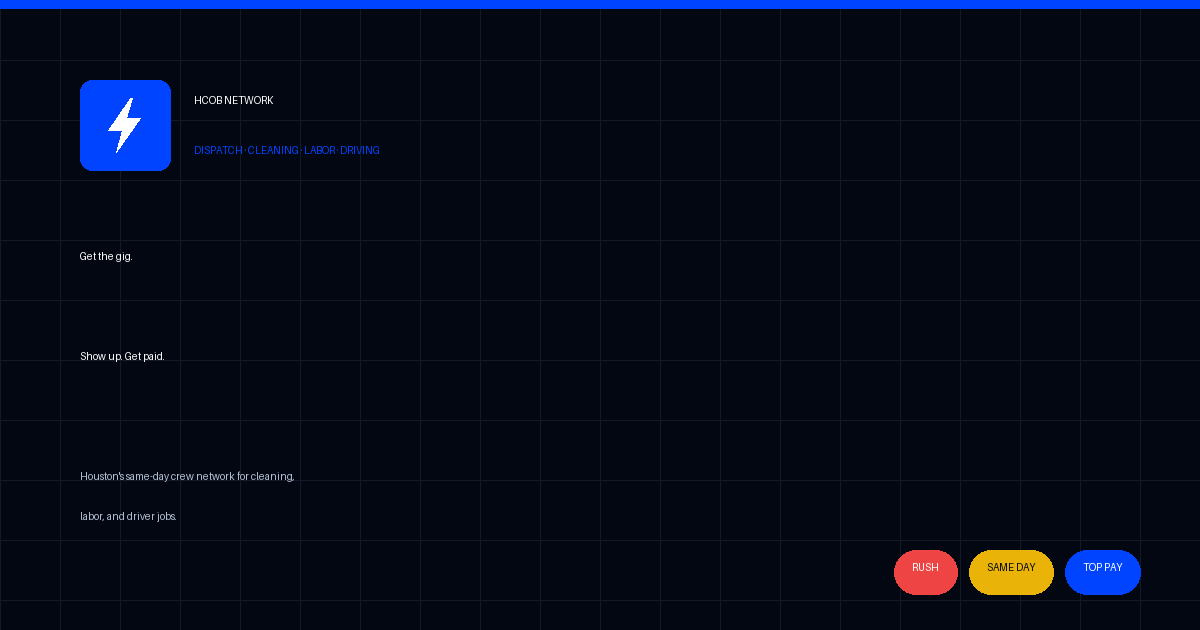
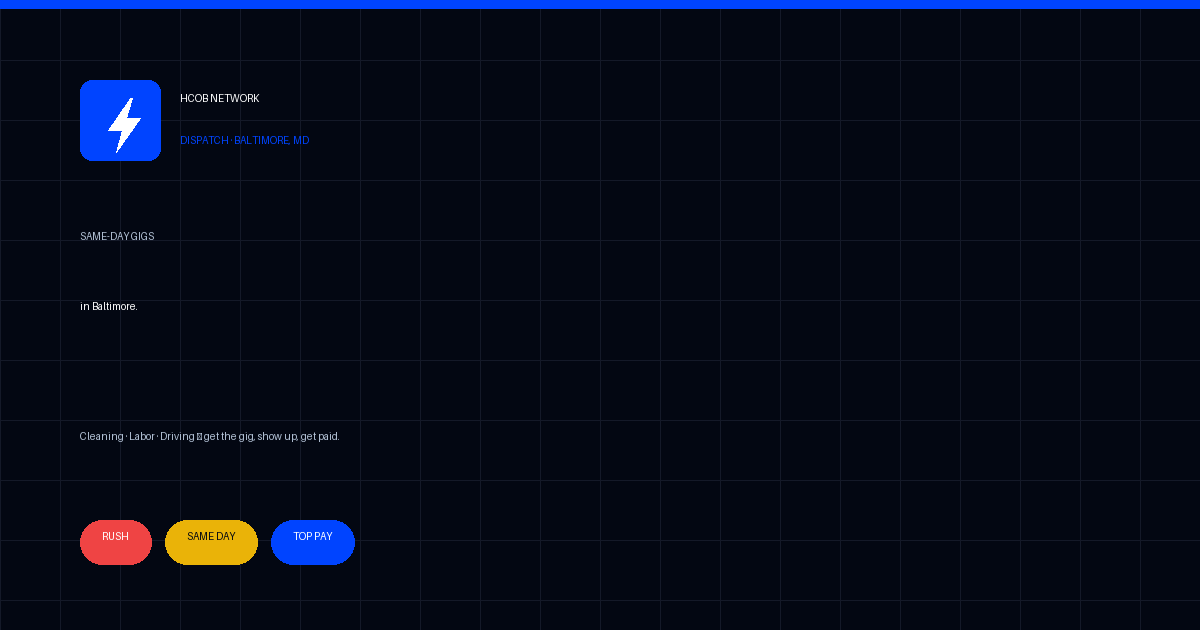
auto-commit for 36c0087f-5a3c-46e1-b421-0fe88ad161a5

diff --git a/frontend/public/index.html b/frontend/public/index.html
@@ -6,8 +6,8 @@
         <meta name="theme-color" content="#0044FF" />
 
         <!-- Primary -->
-        <title>HCOB Network — Same-day cleaning, labor & driver gigs in Houston</title>
-        <meta name="description" content="HCOB's dispatch network for cleaning, labor, and driver gigs across Houston. Get the gig, show up, get paid." />
+        <title>HCOB Network — Same-day cleaning, labor & driver gigs in Baltimore, MD</title>
+        <meta name="description" content="HCOB's dispatch network for cleaning, labor, and driver gigs across Baltimore, Maryland. Get the gig, show up, get paid." />
         <meta name="application-name" content="HCOB Network" />
         <meta name="apple-mobile-web-app-title" content="HCOB Network" />
         <link rel="icon" href="%PUBLIC_URL%/favicon.ico" sizes="any" />
@@ -17,20 +17,20 @@
         <!-- Open Graph -->
         <meta property="og:type" content="website" />
         <meta property="og:site_name" content="HCOB Network" />
-        <meta property="og:title" content="HCOB Network — Same-day gigs in Houston" />
-        <meta property="og:description" content="Get the gig. Show up. Get paid. HCOB's dispatch network for cleaning, labor, and driver gigs across Houston." />
+        <meta property="og:title" content="HCOB Network — Same-day gigs in Baltimore, MD" />
+        <meta property="og:description" content="Get the gig. Show up. Get paid. HCOB's dispatch network for cleaning, labor, and driver gigs across Baltimore, Maryland." />
         <meta property="og:image" content="%PUBLIC_URL%/og-default.png" />
         <meta property="og:image:width" content="1200" />
         <meta property="og:image:height" content="630" />
-        <meta property="og:image:alt" content="HCOB Network — dispatch, cleaning, labor, driving" />
+        <meta property="og:image:alt" content="HCOB Network — Baltimore dispatch for cleaning, labor, driving" />
         <meta property="og:locale" content="en_US" />
 
         <!-- Twitter -->
         <meta name="twitter:card" content="summary_large_image" />
-        <meta name="twitter:title" content="HCOB Network — Same-day gigs in Houston" />
-        <meta name="twitter:description" content="Get the gig. Show up. Get paid. HCOB's dispatch network for cleaning, labor, and driver gigs." />
+        <meta name="twitter:title" content="HCOB Network — Same-day gigs in Baltimore, MD" />
+        <meta name="twitter:description" content="Get the gig. Show up. Get paid. HCOB's dispatch network for cleaning, labor, and driver gigs across Baltimore, Maryland." />
         <meta name="twitter:image" content="%PUBLIC_URL%/og-default.png" />
-        <meta name="twitter:image:alt" content="HCOB Network — dispatch, cleaning, labor, driving" />
+        <meta name="twitter:image:alt" content="HCOB Network — Baltimore dispatch for cleaning, labor, driving" />
 
         <link rel="preconnect" href="https://fonts.googleapis.com" />
         <link rel="preconnect" href="https://fonts.gstatic.com" crossorigin />
@@ -48,7 +48,6 @@
         work correctly both with client-side routing and a non-root public URL.
         Learn how to configure a non-root public URL by running `npm run build`.
         -->
-        <title>HCOB Network — Same-day cleaning, labor & driver gigs in Houston</title>
         <script>window.addEventListener("error",function(e){if(e.error instanceof DOMException&&e.error.name==="DataCloneError"&&e.message&&e.message.includes("PerformanceServerTiming")){e.stopImmediatePropagation();e.preventDefault()}},true);</script>
         <script src="https://assets.emergent.sh/scripts/emergent-main.js"></script>
     </head>

diff --git a/frontend/src/pages/Landing.jsx b/frontend/src/pages/Landing.jsx
@@ -111,7 +111,7 @@ export default function Landing() {
         <div className="mx-auto grid max-w-7xl grid-cols-1 lg:grid-cols-12">
           <div className="lg:col-span-7 border-r-0 lg:border-r border-[#E5E7EB] px-6 py-16 lg:py-24">
             <div className="font-mono-label mb-6">
-              For HCOB workers · Apply once, get gigs forever
+              For HCOB workers in Baltimore, MD · Apply once, get gigs forever
             </div>
             <h1 className="font-display text-5xl sm:text-6xl lg:text-7xl font-black leading-[0.95] tracking-tighter">
               Find gigs from
@@ -119,9 +119,11 @@ export default function Landing() {
               HCOB Cleaners.
             </h1>
             <p className="mt-6 max-w-xl text-base text-[#4B5563] leading-relaxed">
-              HCOB Network is where the HCOB Cleaners crew picks up work. Cleaning,
-              labor, and driver gigs — posted by HCOB, claimed by you. Build a
-              profile once, then accept jobs in the app whenever they hit your feed.
+              HCOB Network is where the HCOB Cleaners crew picks up work
+              across <strong className="text-[#030712]">Baltimore, Maryland</strong>.
+              Cleaning, labor, and driver gigs — posted by HCOB, claimed by you.
+              Build a profile once, then accept jobs in the app whenever they
+              hit your feed.
             </p>
             <div className="mt-10 flex flex-wrap items-center gap-3">
               <Button
@@ -323,7 +325,7 @@ export default function Landing() {
                           <div className="flex items-center gap-1.5">
                             <MapPin size={12} weight="duotone" />
                             <span className="font-semibold text-[#030712]">
-                              {g.location || "Houston area"}
+                              {g.location || "Baltimore area"}
                             </span>
                           </div>
                           <div className="flex items-center gap-1.5">

diff --git a/frontend/src/components/admin/EditGigDialog.jsx b/frontend/src/components/admin/EditGigDialog.jsx
@@ -257,7 +257,7 @@ export default function EditGigDialog({ open, onOpenChange, gig, onSaved }) {
               value={form.address_line}
               onChange={(e) => set("address_line", e.target.value)}
               className="mt-2 h-11 rounded-none border-[#030712]"
-              placeholder="123 Oak Ave, San Francisco, CA 94110"
+              placeholder="123 Oak Ave, Baltimore, MD 21201"
             />
             <div className="mt-1 text-[11px] text-[#4B5563]">
               Hidden from unverified workers and anyone who hasn't accepted.

diff --git a/frontend/src/components/admin/CreateGigDialog.jsx b/frontend/src/components/admin/CreateGigDialog.jsx
@@ -323,7 +323,7 @@ export default function CreateGigDialog({
               value={form.address_line}
               onChange={(e) => set("address_line", e.target.value)}
               className="mt-2 h-11 rounded-none border-[#030712]"
-              placeholder="123 Oak Ave, San Francisco, CA 94110"
+              placeholder="123 Oak Ave, Baltimore, MD 21201"
             />
             <div className="mt-1 text-[11px] text-[#4B5563]">
               Hidden from unverified workers and anyone who hasn't accepted.

diff --git a/frontend/src/components/admin/CreateProjectDialog.jsx b/frontend/src/components/admin/CreateProjectDialog.jsx
@@ -139,7 +139,7 @@ export default function CreateProjectDialog({ open, onOpenChange, onCreated }) {
               data-testid="project-default-location"
               value={form.defaults.location}
               onChange={(e) => setDefault("location", e.target.value)}
-              placeholder="Houston · 77001"
+              placeholder="Baltimore · 21201"
               className="mt-2 h-11 rounded-none border-[#030712]"
             />
           </div>

diff --git a/backend/server.py b/backend/server.py
@@ -3624,7 +3624,7 @@ async def share_gig_og(gig_id: str, request: Request):
     sub = (gig.get("subcategory") or "").replace("_", " ")
     pay = gig.get("pay_rate")
     pay_type = gig.get("pay_type") or "hourly"
-    location = gig.get("location") or "Houston"
+    location = gig.get("location") or "Baltimore, MD"
     scheduled = gig.get("scheduled_date") or "TBD"
     pay_str = f"${pay:.0f}{'/hr' if pay_type == 'hourly' else ' flat'}" if pay else ""
 
@@ -3735,7 +3735,7 @@ async def share_gig_og_image(gig_id: str):
 
         # Branding text
         d.text((180, 92), "HCOB NETWORK", font=find_font(38, bold=True), fill=WHITE)
-        d.text((180, 134), "DISPATCH · HOUSTON", font=find_font(18), fill=BLUE)
+        d.text((180, 134), "DISPATCH · BALTIMORE, MD", font=find_font(18), fill=BLUE)
 
         # Category label
         cat = (gig.get("category") or "").upper()
@@ -3768,7 +3768,7 @@ async def share_gig_og_image(gig_id: str):
             ty += 86
 
         # Meta line: location · scheduled · pay
-        loc = gig.get("location") or "Houston"
+        loc = gig.get("location") or "Baltimore, MD"
         sched = gig.get("scheduled_date") or "TBD"
         pay = gig.get("pay_rate")
         pay_type = gig.get("pay_type") or "hourly"
